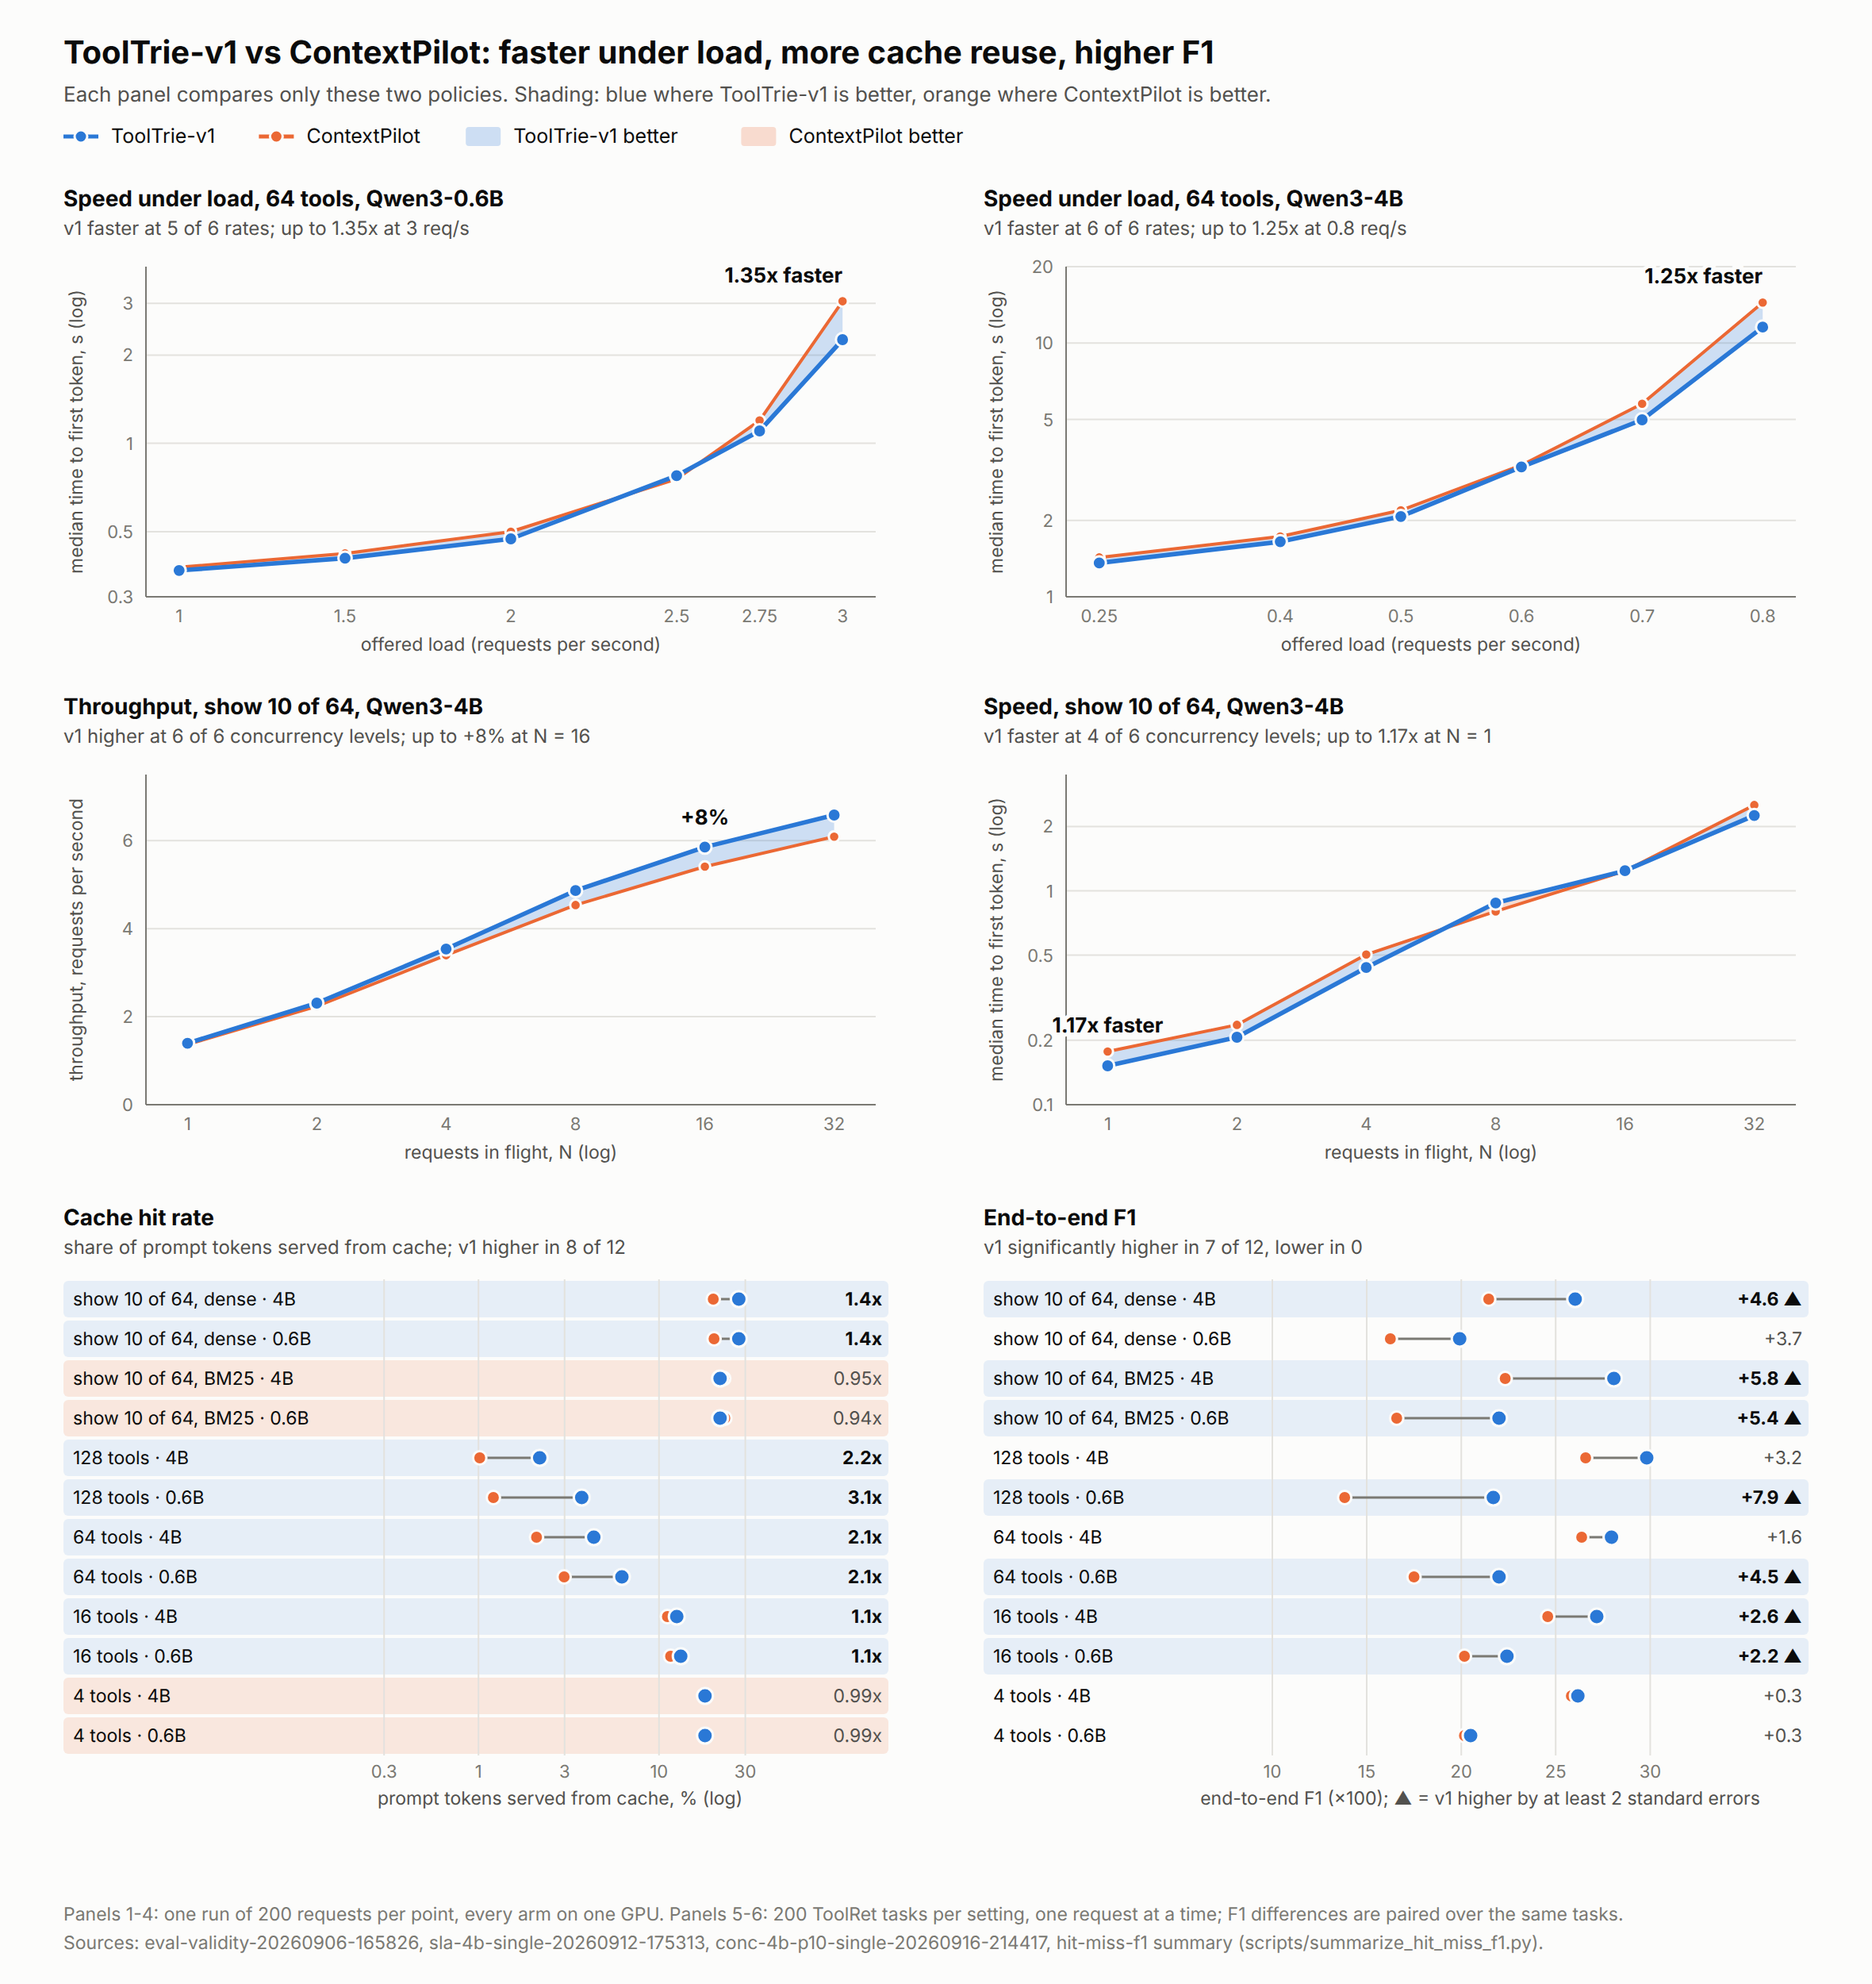
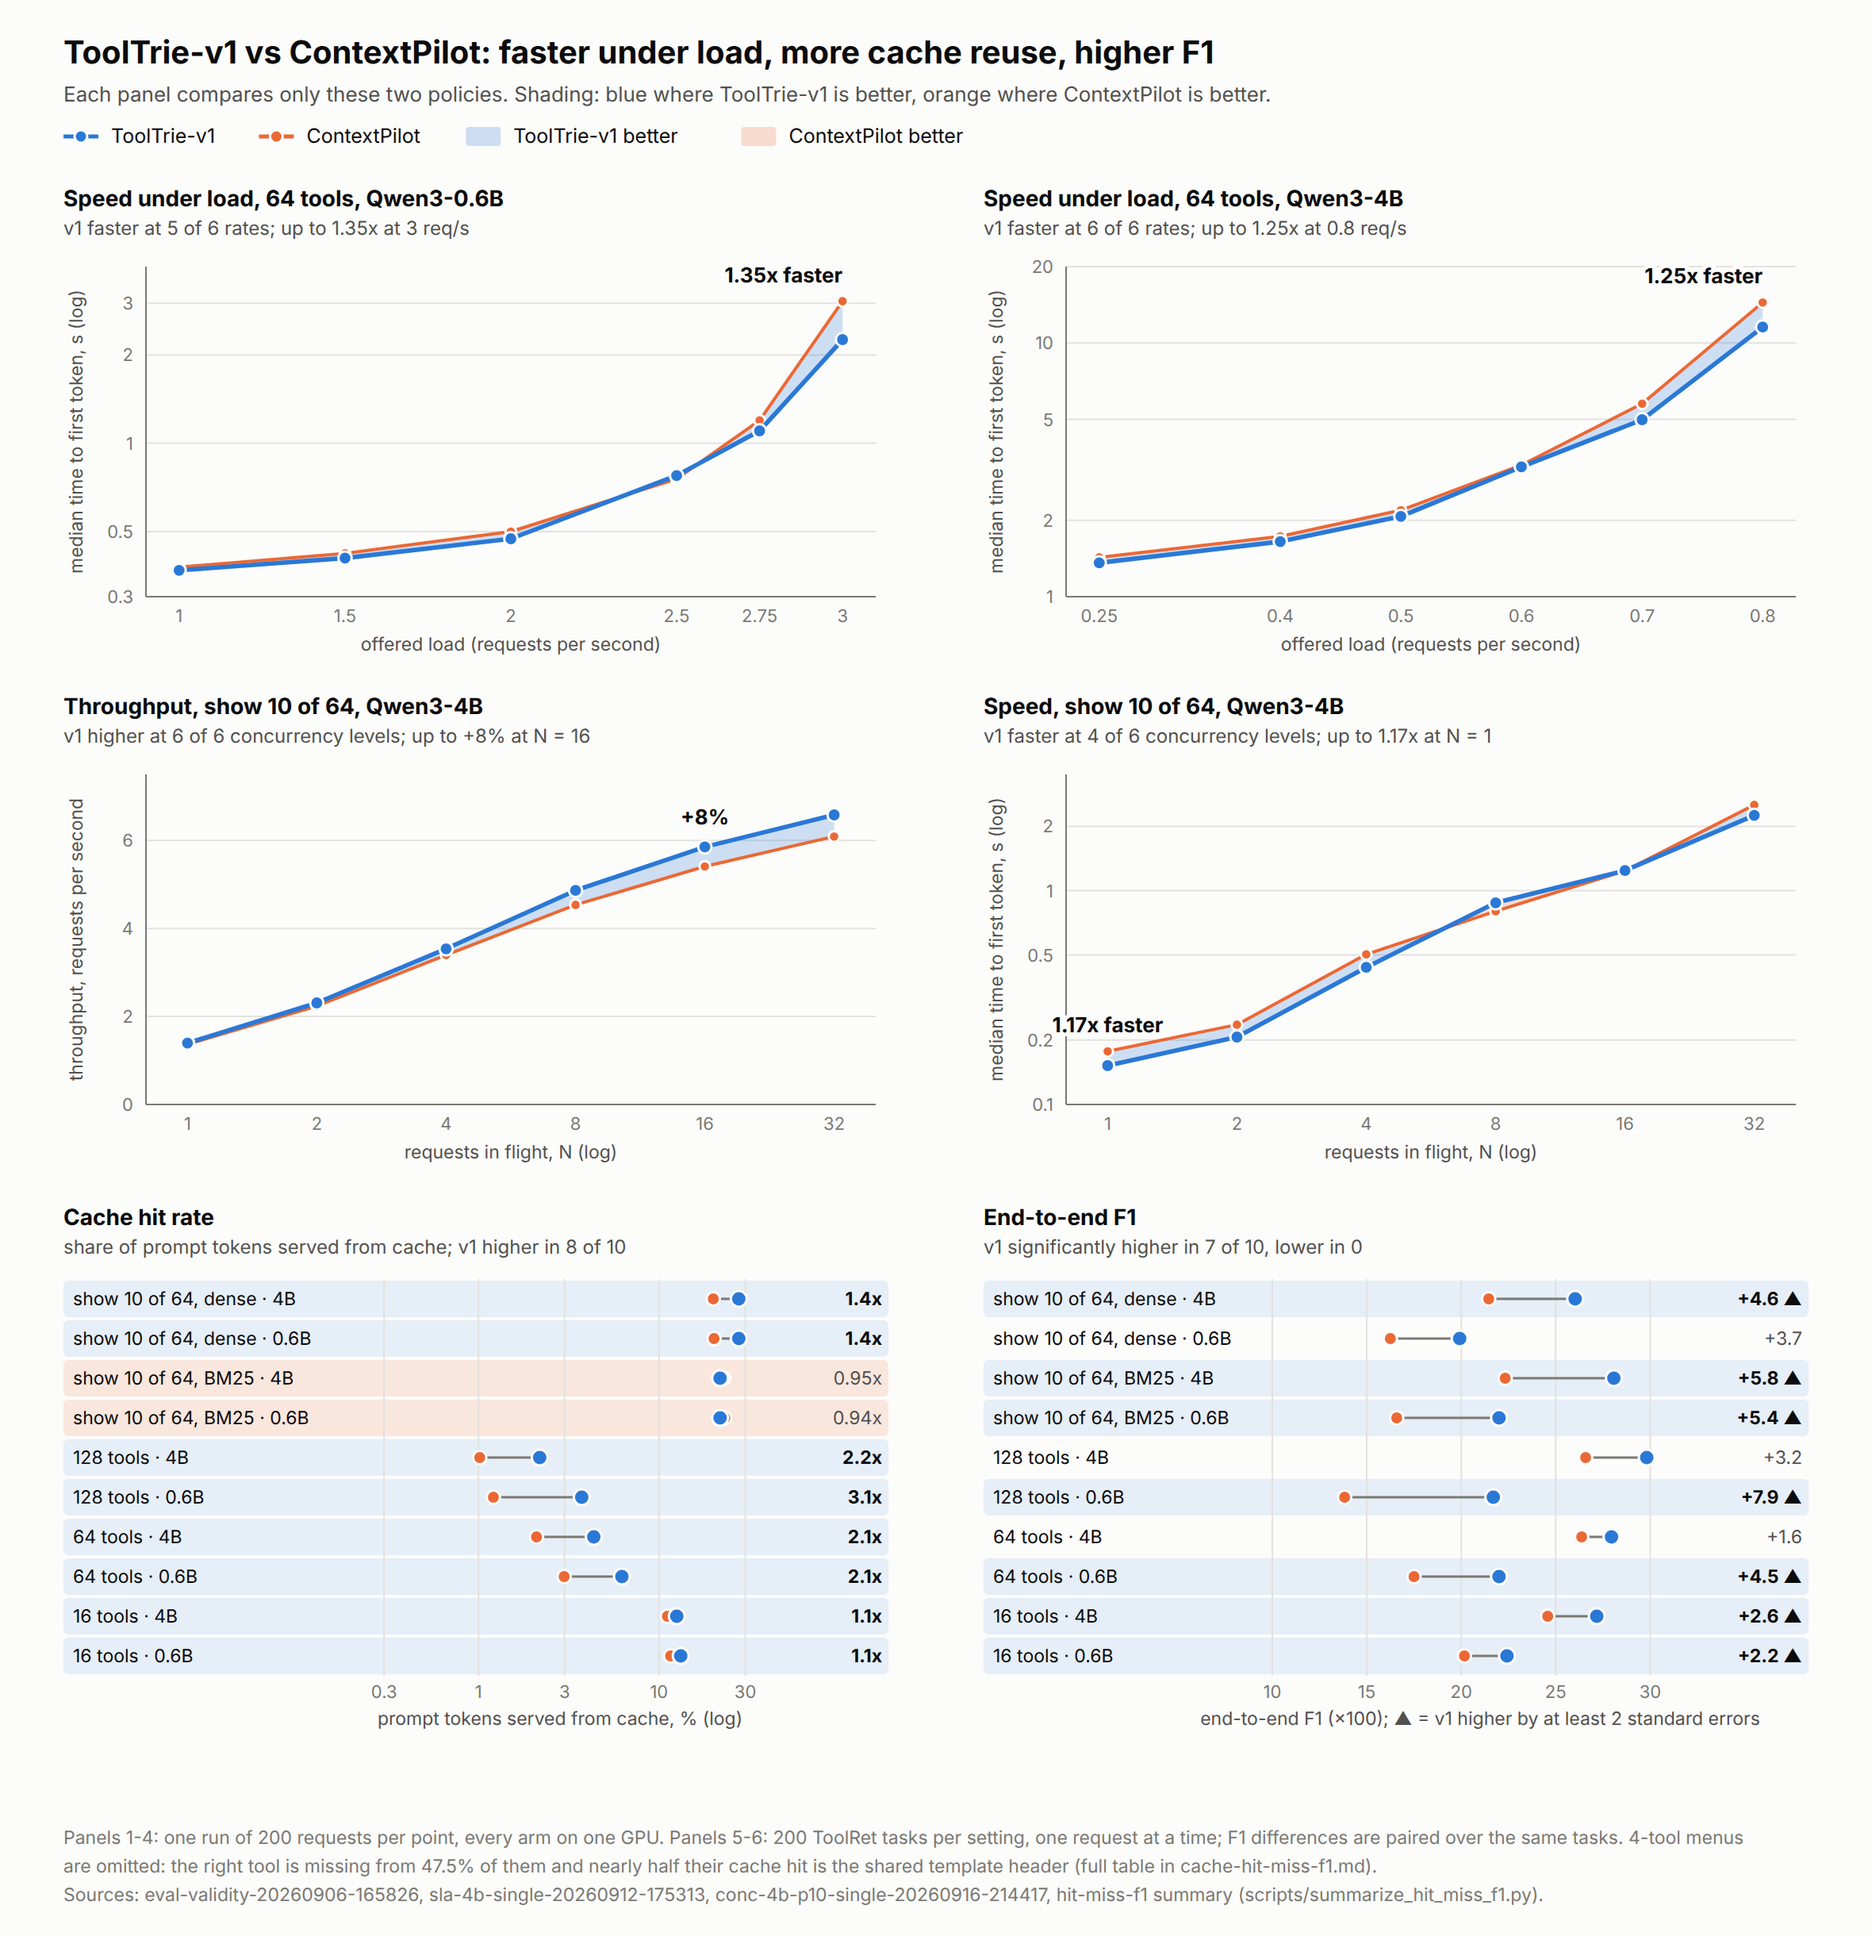
Drop 4-tool menus from the head-to-head figures, with the reason stated
4-tool menus are the least informative setting: the right tool is missing from
47.5% of them, only 24 orderings exist, and nearly half of the cache hit is the
48-token template header every prompt shares under any ordering. F1 ties for
every policy there. The footnote says why they are omitted and points to the
full table in cache-hit-miss-f1.md.

This removes one of ContextPilot's two cache wins (by 0.2 points); the other,
BM25 show-10, stays because it is a realistic setting. vs ContextPilot: cache
hit higher in 8 of 10, F1 significantly higher in 7 of 10 and lower in 0.
vs no reordering: cache hit higher in 10 of 10, no significant F1 difference.

Claude-Session: https://claude.ai/code/session_01JFSPZ9BZWacof7vnpPb4ve

diff --git a/scripts/plot_head_to_head.py b/scripts/plot_head_to_head.py
@@ -33,7 +33,7 @@ SURFACE, INK, INK2, INK3, GRID = "#fcfcfb", "#0b0b0b", "#52514e", "#7a7973", "#e
 V1 = ("tooltrie_v1", "ToolTrie-v1", "#2a78d6")
 RIVALS = {"cp_online": ("ContextPilot", "#eb6834", "contextpilot"),
           "original": ("no reordering", "#8a8983", "no-reordering")}
-W, H = 1180, 1250
+W, H = 1180, 1220
 FONT = "Inter, -apple-system, Segoe UI, Helvetica, Arial, sans-serif"
 
 SLA = {"0.6B": ("cluster/results/eval-validity-20260906-165826/replays/sla-k64-{arm}-rate{r}.json",
@@ -48,8 +48,8 @@ SETTINGS = [  # (label, setting, k) - rows of panels 5-6, each at 4B then 0.6B
     ("128 tools", "whole menu, dense", "k128"),
     ("64 tools", "whole menu, dense", "k64"),
     ("16 tools", "whole menu, dense", "k16"),
-    ("4 tools", "whole menu, dense", "k4"),
-]
+]  # 4-tool menus are left out: the right tool is missing from 47.5% of them, and
+   # nearly half of their cache hit is the 48-token template header, shared under any order
 
 
 def text(x, y, s, size=12, weight=400, fill=INK, anchor="start", halo=False):
@@ -249,8 +249,10 @@ def main() -> None:
                    subtitle=f1_sub, rows=rows, rcolour=rcolour, xlim=(10, 32), xticks=[10, 15, 20, 25, 30],
                    xlog=False, xlabel="end-to-end F1 (×100); ▲ = v1 higher by at least 2 standard errors")
 
-    s.append(text(40, H - 40, "Panels 1-4: one run of 200 requests per point, every arm on one GPU. Panels 5-6: 200 ToolRet tasks per "
-                              "setting, one request at a time; F1 differences are paired over the same tasks.", 11.5, 400, INK3))
+    s.append(text(40, H - 58, "Panels 1-4: one run of 200 requests per point, every arm on one GPU. Panels 5-6: 200 ToolRet tasks per "
+                              "setting, one request at a time; F1 differences are paired over the same tasks. 4-tool menus", 11.5, 400, INK3))
+    s.append(text(40, H - 40, "are omitted: the right tool is missing from 47.5% of them and nearly half their cache hit is the shared "
+                              "template header (full table in cache-hit-miss-f1.md).", 11.5, 400, INK3))
     s.append(text(40, H - 22, "Sources: eval-validity-20260906-165826, sla-4b-single-20260912-175313, "
                               "conc-4b-p10-single-20260916-214417, hit-miss-f1 summary (scripts/summarize_hit_miss_f1.py).",
                   11.5, 400, INK3))
